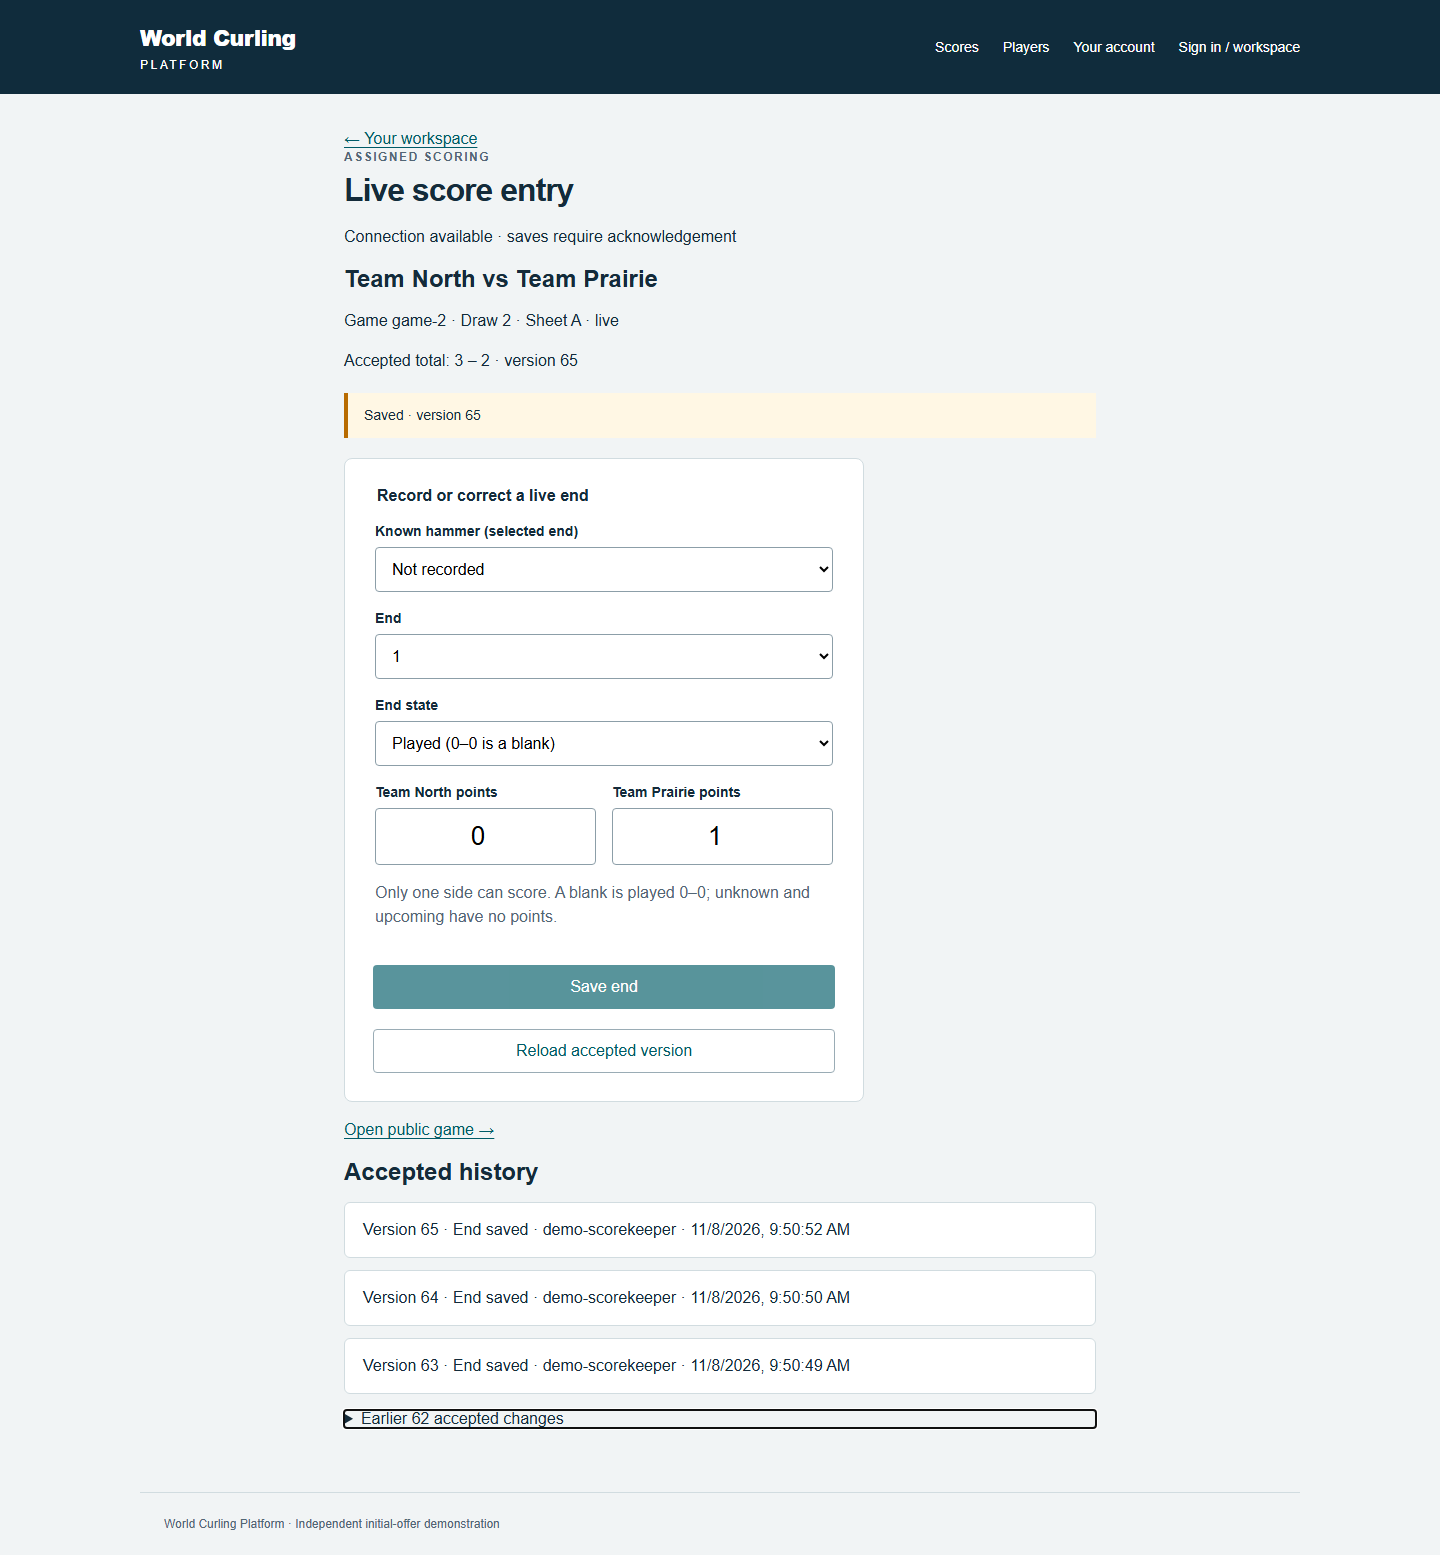
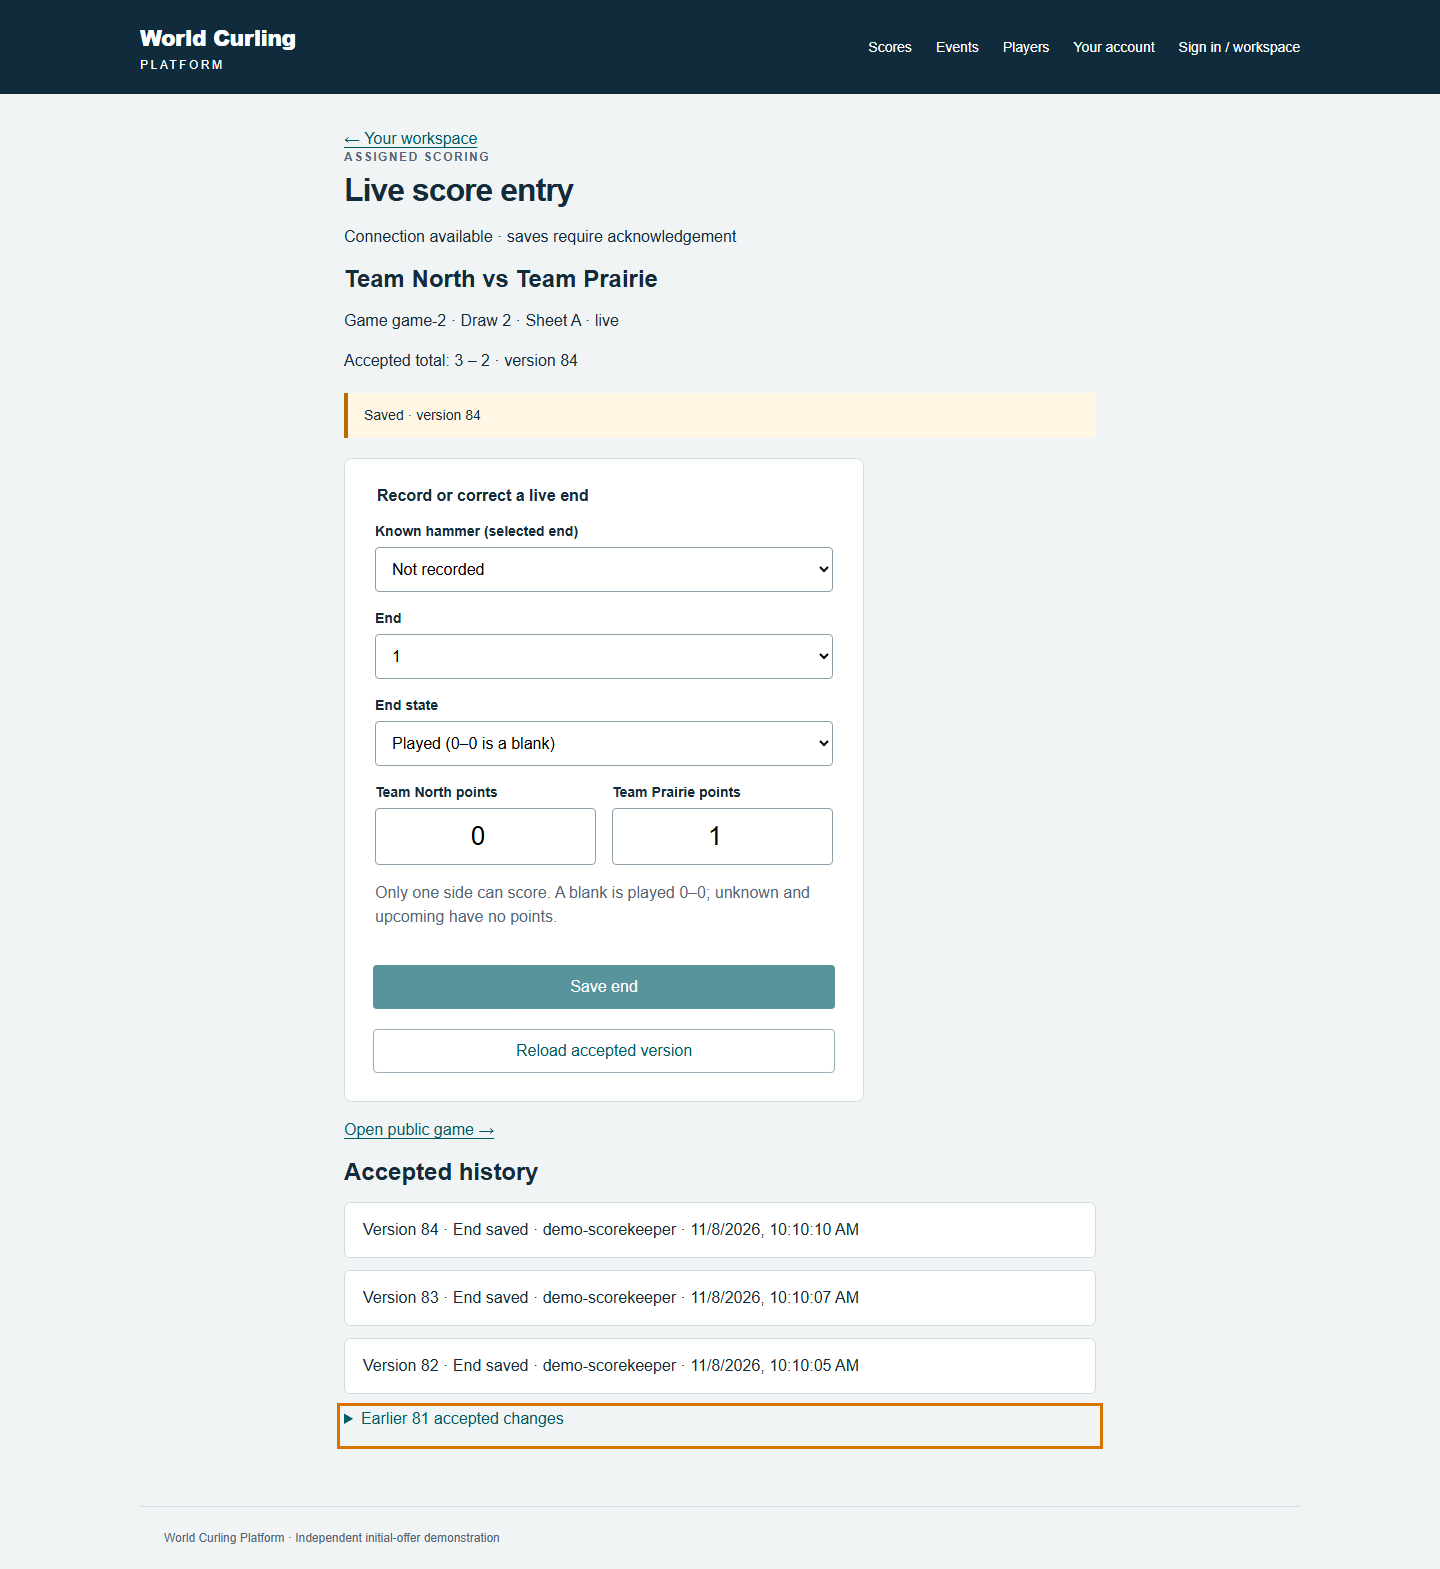
WCP-002: record independent review fixes and combined acceptance

diff --git a/docs/verification/WCP-002.md b/docs/verification/WCP-002.md
@@ -128,3 +128,31 @@ npx tsx scripts/verify-scoring-seed.ts
 The initial probe failed with `null !== 5`. After the seed fix, `db:seed` → probe passed twice through both public and authorized scoring read interfaces: totals **3–2**, current hammer **b**, end **5**, and matching end-specific fact. Then `npx tsx scripts/verify-scoring-seed.ts --edit` submitted a real authorized end-one correction, `npm run db:seed` ran again, and `npx tsx scripts/verify-scoring-seed.ts --edited` passed independent totals **7–1**, version **1**, end-one hammer **a**, and preserved current end-five hammer **b**. These probe modes are for an isolated fresh fictional fixture; `--edit` intentionally changes its end one. The main wcp002 seed was also rerun successfully without overwriting its later accepted scores/history.
 
 All six WCP-002 durable screenshots were refreshed from the final combined production browser run and visually inspected again, including the merged mobile navigation and unchanged usable scoring controls. The profile suite's random-name screenshots were restored to their existing reviewed WCP-012 assets after the run; no private account/claim/mail artifacts were committed. No local acceptance blocker remains, and tracker status/closure remains with the coordinator.
+
+## Independent review corrections and verified WCP-004 integration
+
+Independent merger review returned the prior candidate without merging because a normal eight-column game could not select end nine. The first rerun encountered a stopped production server (`ECONNREFUSED`); after restarting the prior build, the real normal-fixture browser regression timed out on `selectOption('9')`, with “did not find some options.” The editor now offers all supported ends **1–20** in its labelled native select, with a further-end label beyond eight.
+
+The new mobile browser fixture copies only the normal game's first eight end rows and independently asserts an initial length of eight. It enters **end nine, 0–2, hammer Team North** through the actual editor, reloads the editor to observe accepted values, reads the assigned/public persisted state, and opens the public game to verify the ninth-column score, recorded end-nine hammer and unknown totals. All fixture games/grants/receipts/audits are removed in `finally`; no end-nine record is pre-seeded. A durable screenshot is retained as `assets/WCP-002/phone-extra-end-nine.png` after the final run.
+
+The same review identified an incorrect earlier sparse-fixture expectation: a missing end nine was called upcoming even after end ten was actually played. That earlier expectation is superseded. A domain regression first failed on the missing `applyEnd` export; a real API regression independently failed **200 instead of 409** for playing a later end beyond an explicitly unplayed earlier end. The shared command now:
+
+- Converts intervening missing/upcoming ends to **unknown with null points** when a later played/unknown end is recorded, in the same score/version/audit transaction.
+- Returns **409** for contradictory progression across an earlier explicitly unplayed end, or for making an earlier end upcoming/unplayed while a later actual end exists.
+- Preserves genuine future ends as upcoming, and keeps live totals unknown while earlier scores are missing. Public projections align both rows to the game's actual end numbers and also show legacy missing past scores as unknown.
+
+Focused fixed-production checks passed all **11 scoring API tests**, the real normal-fixture end-nine browser test, and the domain regression. The end-ten API fixture now explicitly expects end nine **unknown**, both totals **null**, retained end-ten hammer, and rejection of a backward upcoming edit. The original version/idempotency/audit tests remain intact.
+
+Merged independently reviewed WCP-004 tip `8453b097b8d5bdeb6943e319285aa9a5cc0e78d5` in `a7b94f9`, followed by current metadata-only integration `f96bc0ea982e5be3ecc2e73645f52fb59c40e92d`. The package conflict retains all **four domain and five API files**, including scoring. The public-projection conflict preserves approved-admission gating, explicit multi-division context, independent registration/ranking states, repeatable-read snapshots, correct sparse end columns and end-specific hammer. Shared navigation/workspace/seed changes preserve each feature. No unreviewed branch was merged.
+
+Applied `0003_wcp004_edition_applications_and_history.sql` only to wcp002 and the separately owned seed-check database, and reran the merged seed. The seed-check correction probe still passes **7–1/version 1** and preserved end-one/end-five hammer after migration/reseed.
+
+| Combined review-candidate check | Actual result |
+|---|---|
+| `npm run test:coverage` | **15 passed**; scoring module now 93.83% lines, 97.62% branches, 100% functions. Other focused domain coverage remains as recorded above. |
+| `npm run build`, `npm run typecheck` | Passed against the merged application/profile/scoring source. |
+| `npm run test:api` | **20 passed in 79.5s**, including every inherited application/profile/account/scoring check and a real enabled auth-throttle wait. |
+| Full merged `npm run test:browser` | **23 passed in 1.9 minutes**, including every event/profile/scoring workflow, normal-fixture end-nine entry and native division-preserving navigation. The inherited scorekeeper respected its actual throttle window (53.2s); no authentication protection was changed. |
+| `npm run worker:probe`, `npm audit`, `git diff --check` | Real PostgreSQL job passed; zero vulnerabilities; whitespace check passed. |
+
+All seven final WCP-002 screenshots were copied from that complete combined production run and visually inspected, including [phone end nine with unknown past scores and recorded hammer](assets/WCP-002/phone-extra-end-nine.png). Both teams' ninth-column values, unknown totals, and explicit end-nine hammer are readable at 360px. The other refreshed phone/tablet/desktop and recovery screenshots show the combined Events/Players/account navigation. The profile suite's four regenerated random-fixture assets were restored to their accepted versions. No review finding remains unaddressed; independent merger acceptance and tracker closure remain the coordinator's responsibility.

diff --git a/docs/api/scoring.md b/docs/api/scoring.md
@@ -20,6 +20,8 @@ Hammer describes the **selected end**, including end one for start. Use `null` w
 
 Played points are whole numbers from 0 to 8; at most one side is positive. Played `0–0` is a blank. `unknown`, `upcoming` and `unplayed` require both points to be `null`; unknown ends make totals unknown. End numbers are 1–20 and remain in their actual columns even when entered out of order.
 
+The labelled end selector offers all 20 supported ends, including further ends beyond the initial eight columns. Recording a played/unknown later end makes any intervening unrecorded/upcoming ends **unknown**, with null points and unknown live totals. It does not fabricate zeros or continue calling elapsed ends upcoming. A prior explicitly unplayed end must be corrected before recording a later actual end; an earlier end cannot become upcoming/unplayed while a later actual end exists. These inconsistent commands return 409 without applying changes.
+
 Successful commands return `{"requestId":"…","version":2}`. Retry the **same identifier and entire command** after an uncertain response. A committed duplicate returns its original receipt without changing scores, version or history. A conflicting reused identifier or stale version returns 409. Invalid input returns 400, missing session 401, current scope/origin denial 403, and an unconfirmed server/database failure 503. Manual writes also require the current `manual` scoring source. Both current grants and source are checked while the game is locked.
 
 The transaction commits scores, end hammer, totals, version, before/after audit and the receipt together. A receipt references its audit record. The public projection reads a consistent PostgreSQL snapshot. The editor keeps an unfinished draft and exact pending command in session storage scoped to actor/game, blocks conflicting edits while a request is uncertain, and offers an explicit identical retry. A stale edit must load the accepted version for comparison before resubmission. It does not promise offline synchronization or recovery after the browser tab/storage is lost.
